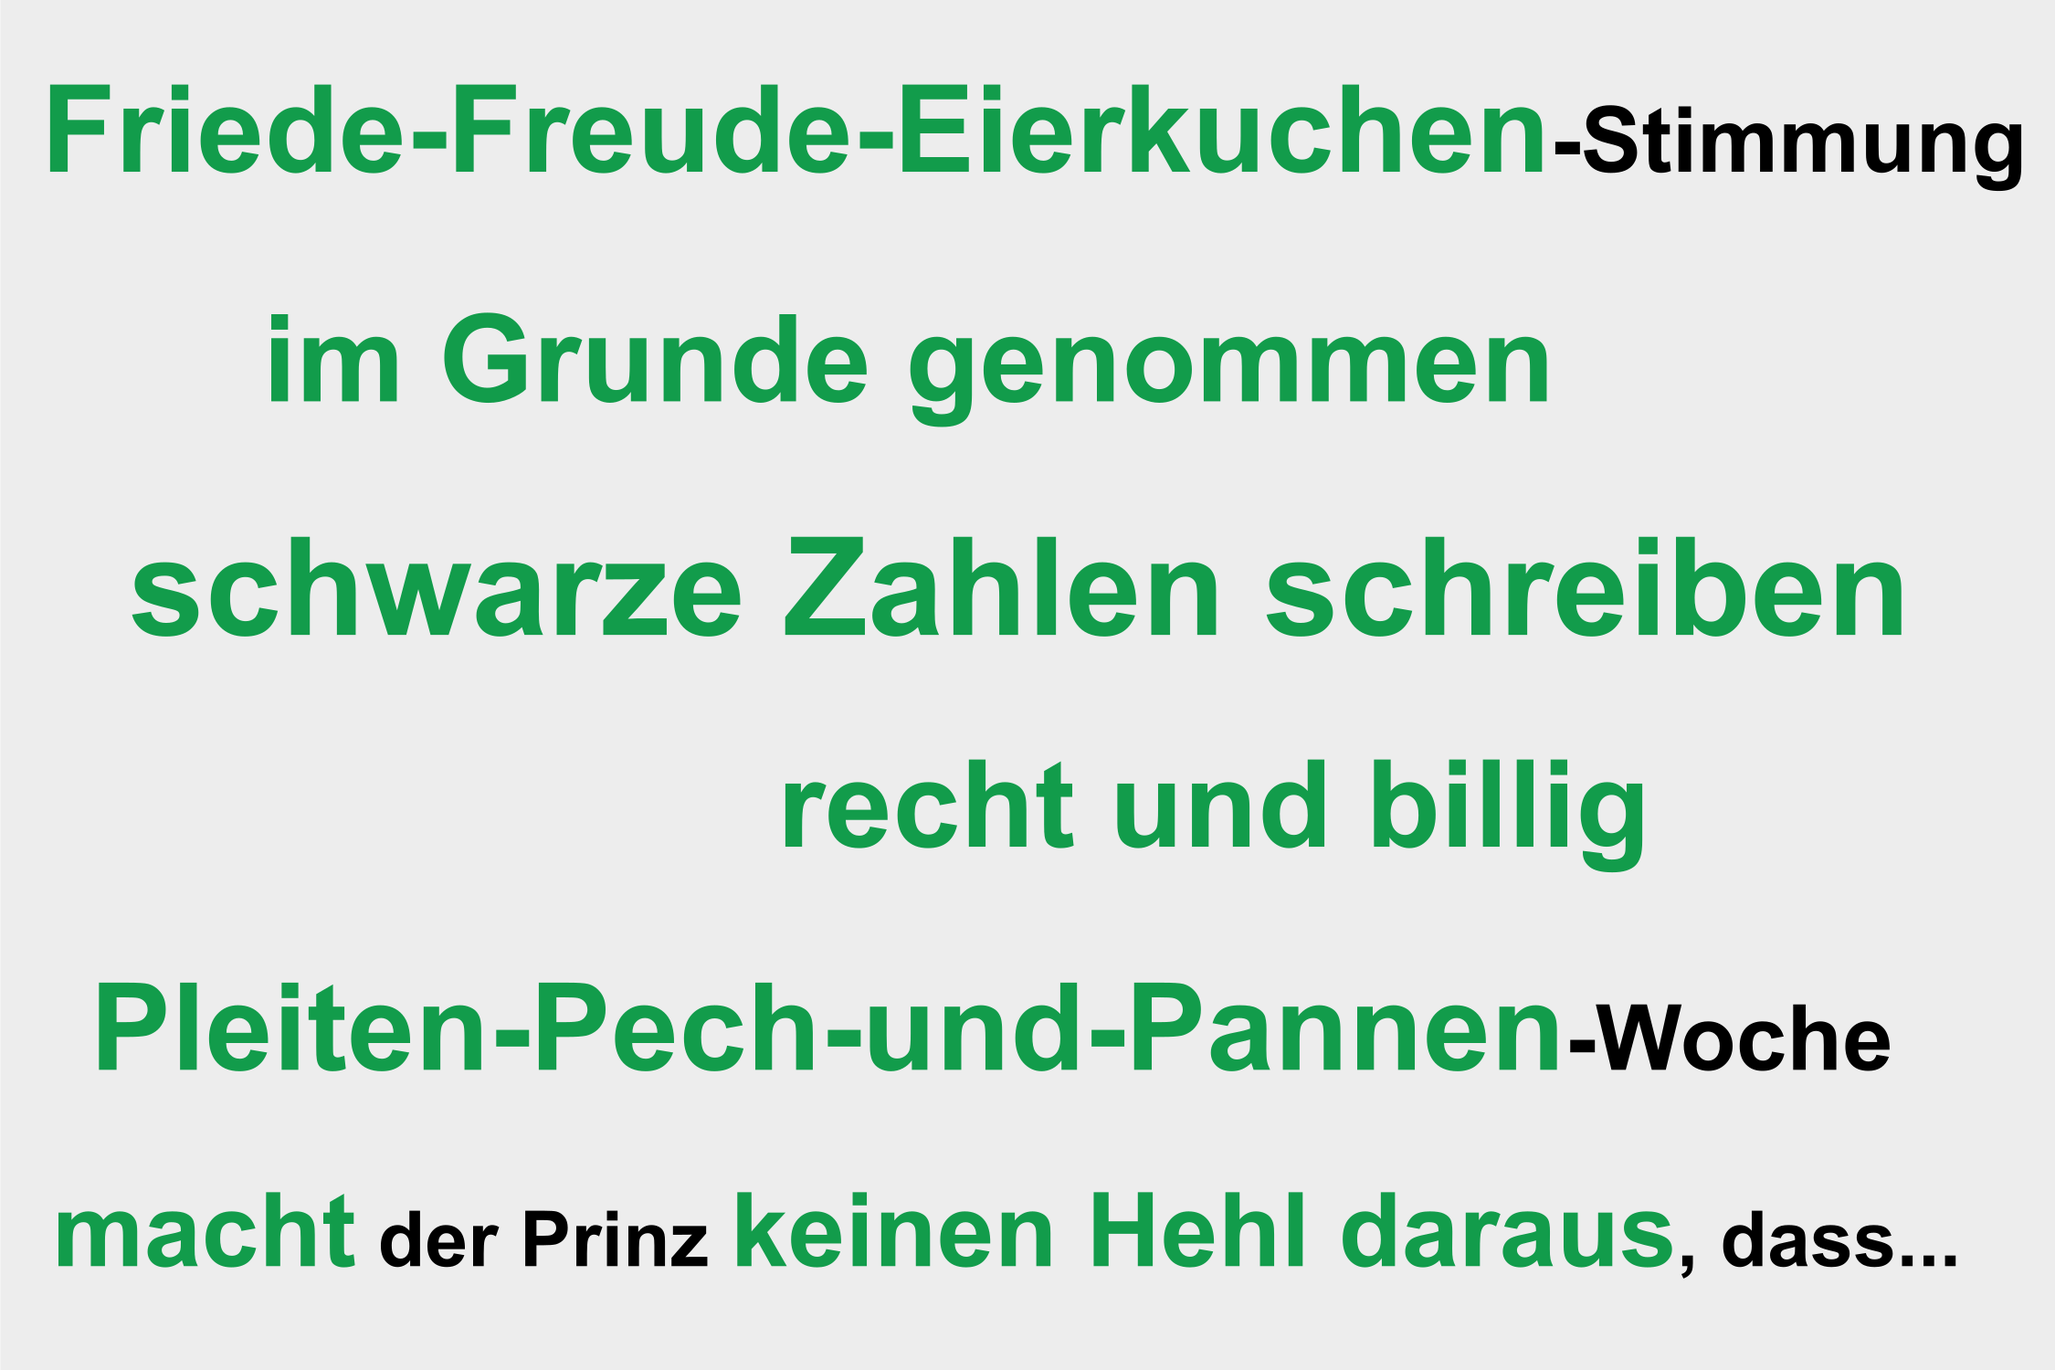
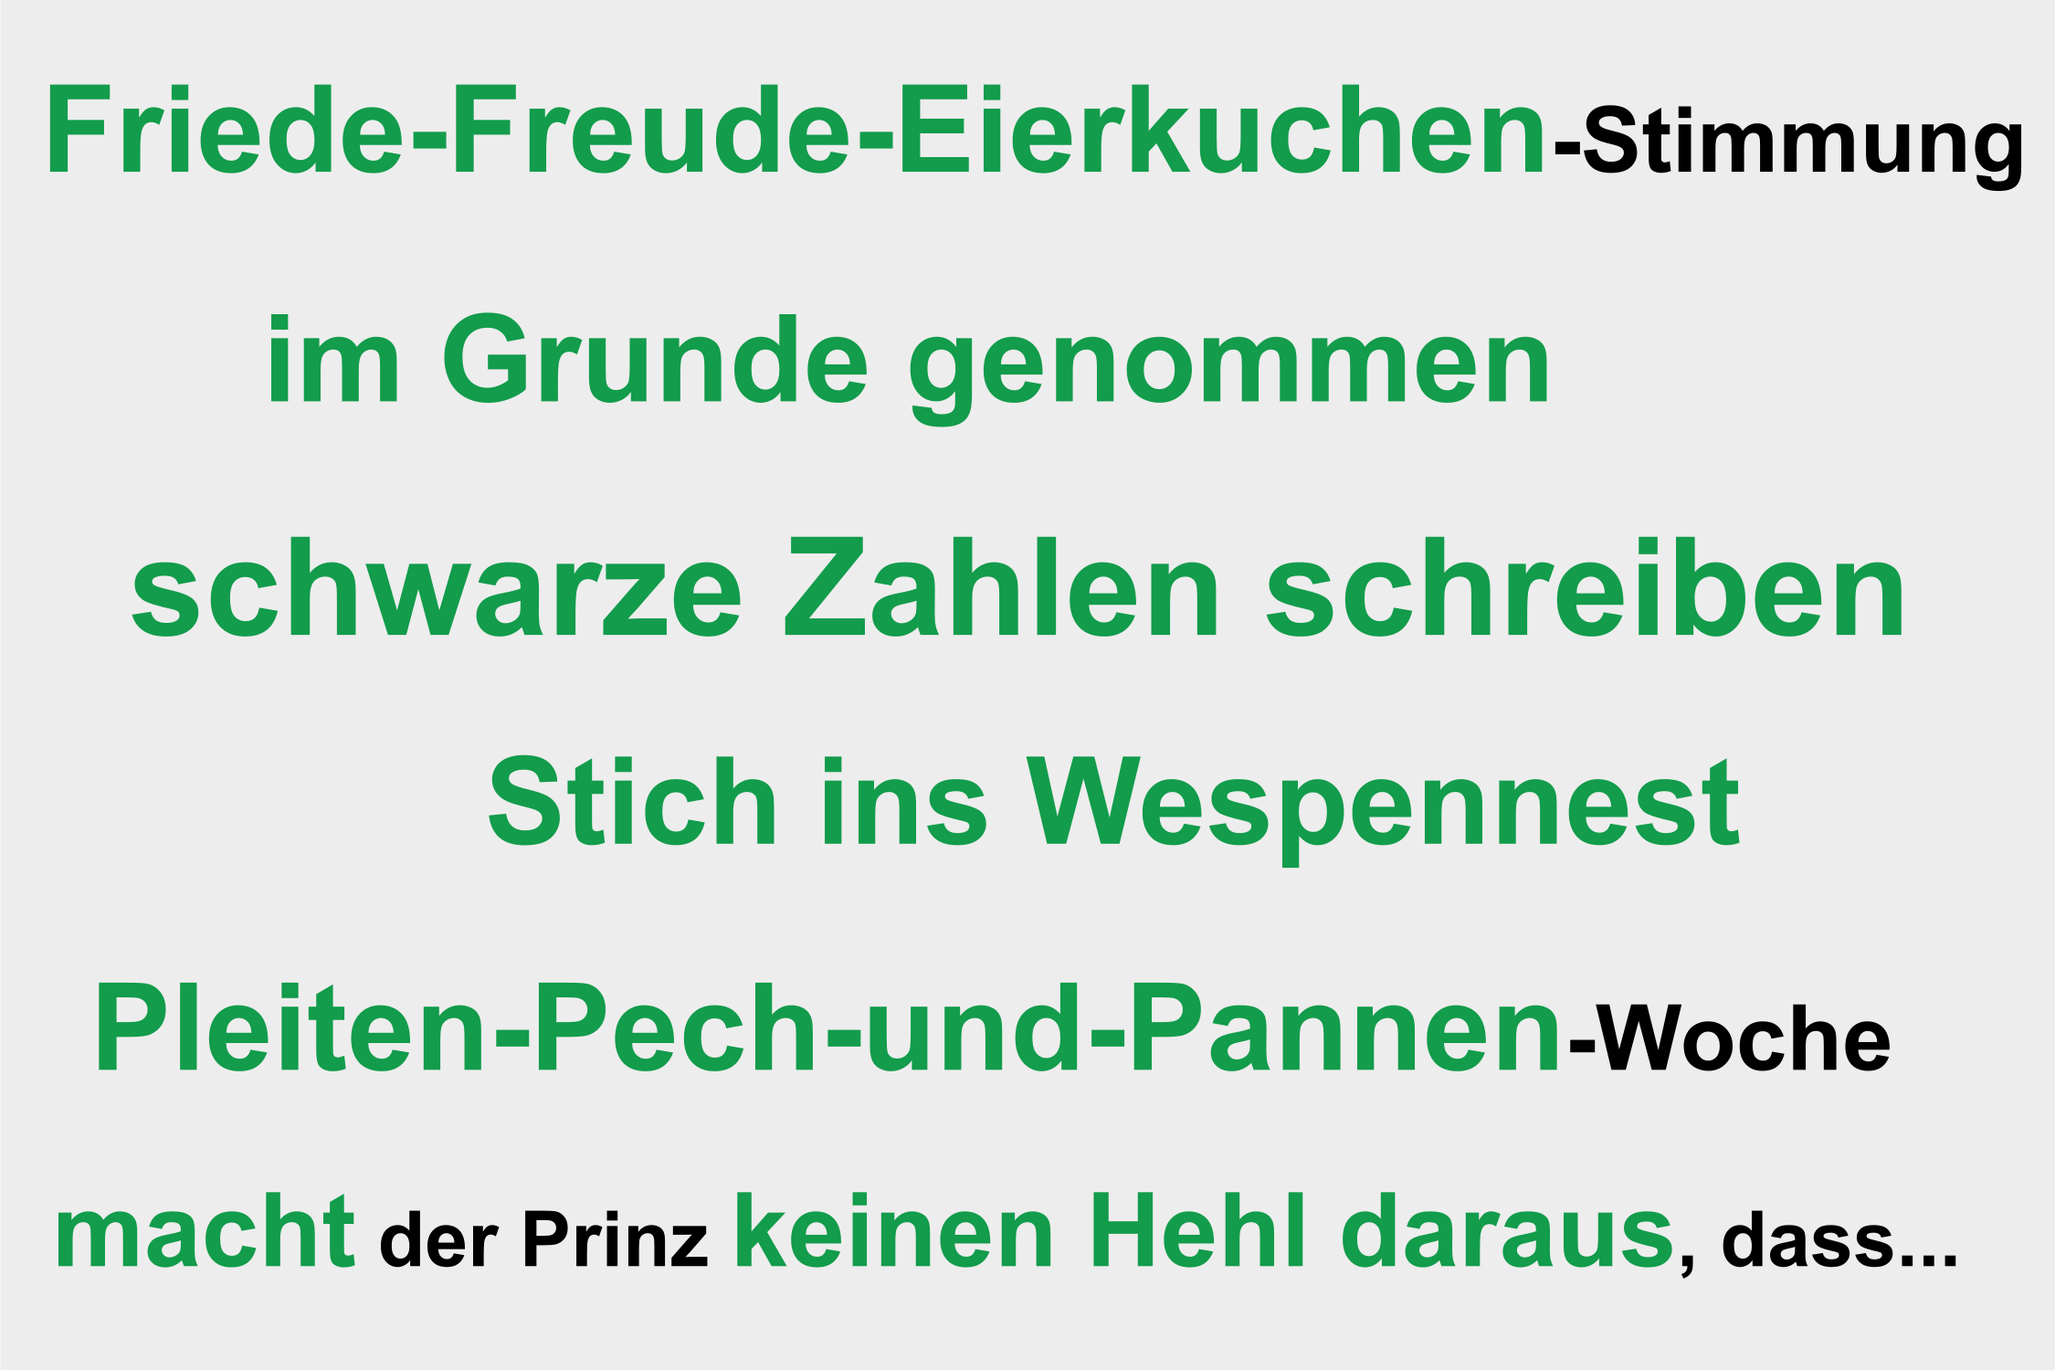
Diverse Fehlerkorrekturen

Changed region(s): [[0.2178, 0.552, 0.84, 0.644]]

diff --git a/pages/corpora.vue b/pages/corpora.vue
@@ -6,11 +6,11 @@
       <p>Das am IDS beheimatete <a href="https://www.ids-mannheim.de/digspra/kl/projekte/korpora/">Deutsche
           Referenzkorpus (DeReKo)</a> ist die empirische Grundlage für nahezu alle
         Ressourcen des Syntagmatikons. Bei DeReKo handelt es sich um die
-        „weltweit größte Sammlung deutschsprachiger Korpora als empirische Basis
+        „[...] weltweit größte Sammlung deutschsprachiger Korpora als empirische Basis
         für die linguistische Forschung“ (57,6 Mrd. Wörter; Stand 09.01.2024).
         Den einzelnen Ressourcen liegen unterschiedliche nicht-annotierte und
         annotierte Teilkorpora zugrunde:</p>
-      <p>
+      <!-- <p>
         <r rkey="KoMuX" /> : <a href="https://grammis.ids-mannheim.de/korpusgrammatik/6615">KoGra
           Untersuchungskorpus</a> (Ausschnitt aus <a
           href="https://www.ids-mannheim.de/digspra/kl/projekte/korpora/">DeReKo)</a>
@@ -20,7 +20,8 @@
         <r rkey="Redeeinleiter" />: <a href="https://github.com/redewiedergabe/corpus">Redewiedergabe-Korpus</a>
       </p>
       <p>
-        <r rkey="PREPCON_ex" />: Tagged-T (DeReKo-Teilkorpus)
+        <r rkey="PREPCON_ex" />: <a
+          href="https://www2.ids-mannheim.de/cosmas2/projekt/referenz/archive.html">Tagged-T</a> (DeReKo-Teilkorpus)
       </p>
 
       <p>
@@ -28,10 +29,48 @@
           href="https://www.sketchengine.eu/estenten-spanish-corpus/">esTenTen18</a>;
         <a href="https://www.sketchengine.eu/sktenten-slovak-corpus/">skTenTen
           11</a>; Slowakisches Nationalkorpus <a href="https://korpus.sk/index_en.html">SNK</a>
-      </p>
+      </p> -->
+
+      <v-row>
+        <v-col cols="4">
+          <r rkey="KoMuX" />
+        </v-col>
+        <v-col><a href="https://grammis.ids-mannheim.de/korpusgrammatik/6615">KoGra
+            Untersuchungskorpus</a> (Ausschnitt aus <a
+            href="https://www.ids-mannheim.de/digspra/kl/projekte/korpora/">DeReKo)</a>
+        </v-col>
+      </v-row>
+
+      <v-row>
+        <v-col cols="4">
+          <r rkey="Redeeinleiter" />
+        </v-col>
+        <v-col><a href="https://github.com/redewiedergabe/corpus">Redewiedergabe-Korpus</a></v-col>
+      </v-row>
+
+      <v-row>
+        <v-col cols="4">
+          <r rkey="PREPCON_ex" />
+        </v-col>
+        <v-col> <a href="https://www2.ids-mannheim.de/cosmas2/projekt/referenz/archive.html">Tagged-T</a>
+          (DeReKo-Teilkorpus)
+        </v-col>
+      </v-row>
+
+
+      <v-row>
+        <v-col cols="4">
+          <r rkey="PREPCON_kon" />
+        </v-col>
+        <v-col>Webkorpora <a href="https://www.sketchengine.eu/estenten-spanish-corpus/">esTenTen18</a> und
+          <a href="https://www.sketchengine.eu/sktenten-slovak-corpus/">skTenTen11</a>; Slowakisches Nationalkorpus <a href="https://korpus.sk/index_en.html">SNK</a></v-col>
+      </v-row>
+
+
 
       <p>Alle anderen Ressourcen basieren unterschiedlichen Ausgaben der
-        DeReKo-W-Archive.</p>
+        <a href="https://www.ids-mannheim.de/digspra/kl/projekte/korpora/releases">DeReKo-W-Archive</a>.
+      </p>
       <p>Für die Auswertung kamen quantitative Methoden wie Frequenzzählungen,
         iterative Suchen nach Textbelegen, statistische Kookkurrenzanalysen
         sowie Slot-Füller-Analysen zum Einsatz.
@@ -45,8 +84,7 @@
             wir aber auch die Ressourcen im Internet, seien es elektronische
             Wörterbücher wie Duden online oder dict.cc, automatische
             Übersetzungshilfen wie Google Übersetzer und DeepL oder Datenbanken mit
-            übersetzten Texten wie Linguee immer mehr mit Unterstützung der KI,
-            sondern ChatGPT.</p>
+            übersetzten Texten wie Linguee immer mehr mit Unterstützung der KI.</p>
           <p>Alle diese Quellen sind - vor allem, wenn man sie kombiniert -
             durchaus sehr nützlich. Was sie aber nicht befriedigend leisten, sind
             gesicherte Aussagen über Typikalität auf der einen Seite und über die

diff --git a/pages/datatypes/index.vue b/pages/datatypes/index.vue
@@ -20,6 +20,35 @@ definePageMeta({
   <div>
     <v-row>
       <v-col>
+        <headline :h="4">Automatische Informationstypen</headline>
+
+        <div class="container">
+
+          <info-box title="Frequenzen" link="/datatypes/frequency" :filter="['WVBF', 'SpruchList', 'Redeeinleiter', 'KoMuX', 'PhrasKomp',
+            'PREPCON_ex', 'PREPCON_temp', 'PREPCON_kon']" :color1="color1">
+            Häufigkeit des Vorkommens eines sprachlichen Ausdrucks im Korpus, ermittelt mithilfe von Zählungen
+            und/oder Suchanfragen (queries)
+          </info-box>
+
+          <info-box title="KWICs <span style='font-size:0.8em'>(KeyWord In Context)</span>" link="/datatypes/kwic"
+            :filter="['WVBF', 'SpruchList',
+              'PREPCON_ex', 'PREPCON_temp', 'PREPCON_kon', 'SPRW']" :color1="color1">
+            Zeilen (Konkordanzen), in denen das Suchobjekt vorkommt (Textschnipsel)
+          </info-box>
+
+          <info-box title="Kookkurrenzprofile" link="/datatypes/cooccurrence" :filter="['WVBF',
+            'PREPCON_temp', 'PREPCON_kon']" :color1="color1">
+            Durch statistische Berechnungen (sog. Kookkurrenzanalysen) ermittelte Partnerwort-Profile
+            (überproportional häufiges Miteinandervorkommen von Wörtern und Wortgruppen)
+          </info-box>
+
+          <info-box title="Lückenfüllertabellen" link="/datatypes/patterntable" :filter="['WVBF',
+            'PREPCON_temp', 'PREPCON_kon']" :color1="color1">
+            Durch automatische Auswertung ermittelte Füllerhäufigkeiten innerhalb eines Musterslots
+          </info-box>
+
+        </div>
+
         <empty />
         <headline :h="4">Bearbeitete Informationstypen</headline>
 
@@ -59,34 +88,7 @@ definePageMeta({
         </div>
 
         <empty />
-        <headline :h="4">Automatische Informationstypen</headline>
 
-        <div class="container">
-
-          <info-box title="Frequenzen" link="/datatypes/frequency" :filter="['WVBF', 'SpruchList', 'Redeeinleiter', 'KoMuX', 'PhrasKomp',
-            'PREPCON_ex', 'PREPCON_temp', 'PREPCON_kon']" :color1="color1">
-            Häufigkeit des Vorkommens eines sprachlichen Ausdrucks im Korpus, ermittelt mithilfe von Zählungen
-            und/oder Suchanfragen (queries)
-          </info-box>
-
-          <info-box title="KWICs <span style='font-size:0.8em'>(KeyWord In Context)</span>" link="/datatypes/kwic"
-            :filter="['WVBF', 'SpruchList',
-              'PREPCON_ex', 'PREPCON_temp', 'PREPCON_kon', 'SPRW']" :color1="color1">
-            Zeilen (Konkordanzen), in denen das Suchobjekt vorkommt (Textschnipsel)
-          </info-box>
-
-          <info-box title="Kookkurrenzprofile" link="/datatypes/cooccurrence" :filter="['WVBF',
-            'PREPCON_temp', 'PREPCON_kon']" :color1="color1">
-            Durch statistische Berechnungen (sog. Kookkurrenzanalysen) ermittelte Partnerwort-Profile
-            (überproportional häufiges Miteinandervorkommen von Wörtern und Wortgruppen)
-          </info-box>
-
-          <info-box title="Lückenfüllertabellen" link="/datatypes/patterntable" :filter="['WVBF',
-            'PREPCON_temp', 'PREPCON_kon']" :color1="color1">
-            Durch automatische Auswertung ermittelte Füllerhäufigkeiten innerhalb eines Musterslots
-          </info-box>
-
-        </div>
       </v-col>
     </v-row>
   </div>

diff --git a/pages/pos/phrasemes.vue b/pages/pos/phrasemes.vue
@@ -162,16 +162,16 @@ export default {
                     <div style="width: 100%; margin-bottom: 20px;">
                         <ul>
                             <li>
-                                <m>billiger Jakob</m>
+                                <m>an die große Glocke hängen</m>
                             </li>
                             <li>
-                                <m>eigen Fleisch und Blut</m>
+                                <m>Dienst nach Vorschrift</m>
                             </li>
                             <li>
-                                <m>im eigenen Saft schmoren</m>
+                                <m>das Rad neu erfinden</m>
                             </li>
                             <li>
-                                <m>recht und billig</m>
+                                <m>Stich ins Wespennest</m>
                             </li>
                         </ul>
                     </div>
@@ -179,16 +179,16 @@ export default {
                     <div style="width: 100%;">
                         <ul>
                             <li>
-                                <m>sich blind verstehen</m>
+                                <m>blinder Alarm</m>
                             </li>
                             <li>
-                                <m>im Vollbesitz seiner geistigen Kräfte</m>
+                                <m>geistiger Vater</m>
                             </li>
                             <li>
-                                <m>gesund und munter</m>
+                                <m>gesunder Menschenverstand</m>
                             </li>
                             <li>
-                                <m>jeder halbwegs normale Mensch</m>
+                                <m>sanfter Druck</m>
                             </li>
                         </ul>
                     </div>

diff --git a/pages/team.vue b/pages/team.vue
@@ -124,7 +124,8 @@
         <h3>Projekte und Arbeitsbereiche</h3>
 
         <p>Informationen zu beteiligten Projekten und Arbeitsbereichen finden Sie auf folgenden Webseiten:</p>
-        <p style="border-top: solid #C0C0C0 1px; padding-top: 10px">
+        <!-- <p style="border-top: solid #C0C0C0 1px; padding-top: 10px"> -->
+            <p style="padding-top: 10px">
             <NuxtLink to="https://www.ids-mannheim.de/lexik/syntagmatik-im-lexikon/">Projekt „Syntagmatik im
                 Lexikon“</NuxtLink>
                 <p style="margin-left:40px">
@@ -136,12 +137,12 @@
             <NuxtLink to="https://www.ids-mannheim.de/lexik/syntagmatik-im-lexikon/wortbildungsmuster/">
                 Argumentstrukturen</NuxtLink></p>
         </p>
-        <p style="border-top: solid #C0C0C0 1px; padding-top: 10px">
+        <p style="padding-top: 10px">
             <NuxtLink
                 to="https://www.ids-mannheim.de/lexik/pb-lexik-empirisch-digital/lexikologische-informationssysteme/">
                 Projekt „Lexikologische Informationssysteme“</NuxtLink>
         </p>
-        <p style="border-top: solid #C0C0C0 1px; padding-top: 10px">
+        <p style="padding-top: 10px">
             <NuxtLink to="https://www.ids-mannheim.de/lexik/redewiedergabe/">Projekt „Redewiedergabe“</NuxtLink>
             (abgeschlossen)
         </p>

diff --git a/pages/index.vue b/pages/index.vue
@@ -26,6 +26,41 @@
       </div>
     </v-col>
   </v-row>
+
+  <v-row>
+      <v-col cols="4">
+      <div style="border:1px #ccc solid; border-radius: 5px; padding: 10px; background-color: rgba(0, 0, 0, 0.05); margin-top:10px">
+        <div style="text-align: center;">
+          <v-icon style="font-size: 60px;">
+            mdi-database-search-outline
+          </v-icon>
+          <div><strong>über 85.000</strong><br> Einträge</div>
+        </div>
+      </div>
+    </v-col>
+    <v-col cols="4">
+      <div style="border:1px #ccc solid; border-radius: 5px; padding: 10px; background-color: rgba(0, 0, 0, 0.05); margin-top:10px">
+        <div style="text-align: center;">
+          <v-icon style="font-size: 60px;">
+            mdi-text-box-multiple-outline
+          </v-icon>
+          <div><strong>über 100</strong><br> erkärende Texte und Screenshots</div>
+        </div>
+      </div>
+    </v-col>
+    <v-col cols="4">
+      <div style="border:1px #ccc solid; border-radius: 5px; padding: 10px; background-color: rgba(0, 0, 0, 0.05); margin-top:10px">
+        <div style="text-align: center;">
+          <v-icon style="font-size: 60px;">
+            mdi-filter-outline
+          </v-icon>
+          <div><strong>über 30</strong><br> Suchfilter</div>
+        </div>
+      </div>
+    </v-col>
+  </v-row> 
+
+
 </template>
 
 <script>

diff --git a/stores/resources.js b/stores/resources.js
@@ -134,7 +134,7 @@ export const useResourcesStore = defineStore("resourcesStore", {
           nameLong:
             "SpruchList - Referenzinventar deutscher Sprichwörter und Sprüche",
           description:
-            "<b>SpruchList</b> ist eine korpusbasierte, durchsuch- und sortierbare Häufigkeitsliste von 650 Sprichwörtern, Sprüchen und festen Gebrauchssätzen des Deutschen – angereichert mit hinterlegten Suchanfragen, Kontextzeilen, Verlinkungen und Visualisierungen. Das  Referenzinventar enthält Sprichwörter wie <em>wer A sagt, muss auch B sagen</em> und andere feste Sätze, die Eingang in die Allgemeinsprache gefunden haben wie <em>klein, aber fein</em> oder <em>aus die Maus</em>.",
+            "<b>SpruchList</b> ist eine korpusbasierte, durchsuch- und sortierbare Häufigkeitsliste von 650 Sprichwörtern, Sprüchen und festen Gebrauchssätzen des Deutschen. Sie ist angereichert mit hinterlegten Suchanfragen, Kontextzeilen, Verlinkungen und Visualisierungen. Das  Referenzinventar enthält Sprichwörter wie <em>wer A sagt, muss auch B sagen</em> und andere feste Sätze, die Eingang in die Allgemeinsprache gefunden haben wie <em>klein, aber fein</em> oder <em>aus die Maus</em>.",
           img: "./img/sources/spruchlist.png",
           url: "http://uwv.ids-mannheim.de/spruchlist/",
           tags: [],

diff --git a/pages/pos/index.vue b/pages/pos/index.vue
@@ -10,8 +10,7 @@ definePageMeta({
       Wort- und Ausdrucksarten
     </h1>
     <p>Die Beschreibungskandidaten bzw. Stichwörter im SYNTAGMATIKON sowie deren Komponenten basieren auf
-      unterschiedlichen Wort- und Ausdrucksarten. In dieser Rubrik werden jene näher beschrieben, die in mehr als einer
-      Ressource relevant sind.</p>
+      unterschiedlichen Wort- und Ausdrucksarten. In dieser Rubrik werden Beispiele für jene aufgeführt, die in mehr als einer Ressource relevant sind.</p>
     <p>Die Zuordnung der Ressourcen zu Wort- und Ausdrucksarten erfolgt gemäß folgender Kriterien:</p>
     <ul>
       <li>Hauptkomponenten, die diesen Eintrag zentral konstituieren</li>

diff --git a/pages/project-description.vue b/pages/project-description.vue
@@ -31,7 +31,7 @@
         <p>Je nach Zielsetzung und Vorgehen unterscheiden sich Daten- und
           Angabetypen in den Ressourcen. Es handelt sich um ein modulares
           Onlineformat, bei dem verfestigte Wortgruppen und lexikalisch geprägte
-          Mustern nicht nach einem einheitlichen Raster dargestellt werden,
+          Muster nicht nach einem einheitlichen Raster dargestellt werden,
           sondern dynamisch-flexibel in unterschiedlichen Beschreibungstiefen.
           <expand-me>Die Heterogenität der Formate spiegelt ebenso die
             wissenschaftshistorische Entwicklung des korpuslinguistischen Paradigmas

diff --git a/pages/datatypes/fields.vue b/pages/datatypes/fields.vue
@@ -53,8 +53,7 @@ export default {
         description="Feste Wortverbindungen des Deutschen - Modul: Wortverbindungen mit Adjektiv">
         <p>
           Die Feldangaben in
-          <r rkey="FesteWV" /> (Untergruppe
-          "Adjektive")
+          <r rkey="FesteWV" /> (Rubrik "Wortverbindungen mit Adjektiven")
           fassen Einträge dieses OWID-Moduls zusammen, die eine
           verwandte Bedeutung haben, entweder mit einer gemeinsamen Komponente (z.B. <i>blind</i>) oder mit gänzlich
           unterschiedlichen Komponenten (z.B. <i>sich blind verstehen</i> – <i>geistige Verwandtschaft</i>).

diff --git a/nuxt.config.ts b/nuxt.config.ts
@@ -40,7 +40,7 @@ export default defineNuxtConfig({
   runtimeConfig: {
     public: {
       appName: "Syntagmatikon",
-      appDescription: "Eine korpusbasierte Plattform verfestigter Wortkombinationen und lexikalischer Muster im Deutschen.",
+      appDescription: "Eine korpusbasierte Plattform verfestigter Wortkombinationen und lexikalischer Muster im Deutschen",
 
       leftIconHref: "https://www.owid.de/plus/index.html",
       rightIconHref: "https://www.ids-mannheim.de/",

diff --git a/pages/patterns/index.vue b/pages/patterns/index.vue
@@ -21,7 +21,7 @@ definePageMeta({
       <li><strong>w-x-ist-ist-auch-y-Muster</strong>: <br /> {Licht – Schatten; Rauch – Feuer; Arbeit – Brot} </li>
     </ul>
     <br />
-    <div class="caption">Im Syntagmatikon kommt die Musterperspektive auf dreifache Weise ins Spiel:</div>
+    <div class="caption">Jedes Kästchen linkt zu einer Hintergrundseite mit kurzen Erklärungen und Beispielen zu den unterschiedlichen Musterzugängen.</div>
   </div>
   <div>
     <v-row>

diff --git a/pages/datatypes/category.vue b/pages/datatypes/category.vue
@@ -222,8 +222,7 @@ export default {
       <compare-item value="6" rkey="FesteWV">
         <p>
           In
-          <r rkey="FesteWV" /> in OWID, Rubrik „25
-          Musterartikel“,
+          <r rkey="FesteWV" /> in OWID, Rubrik „Musterartikel“,
           werden die Stichwörter nach Phrasenkategorie und Mehrwortkategorie (nach Fleischer 1997; Burger
           2015)
           klassifiziert.
